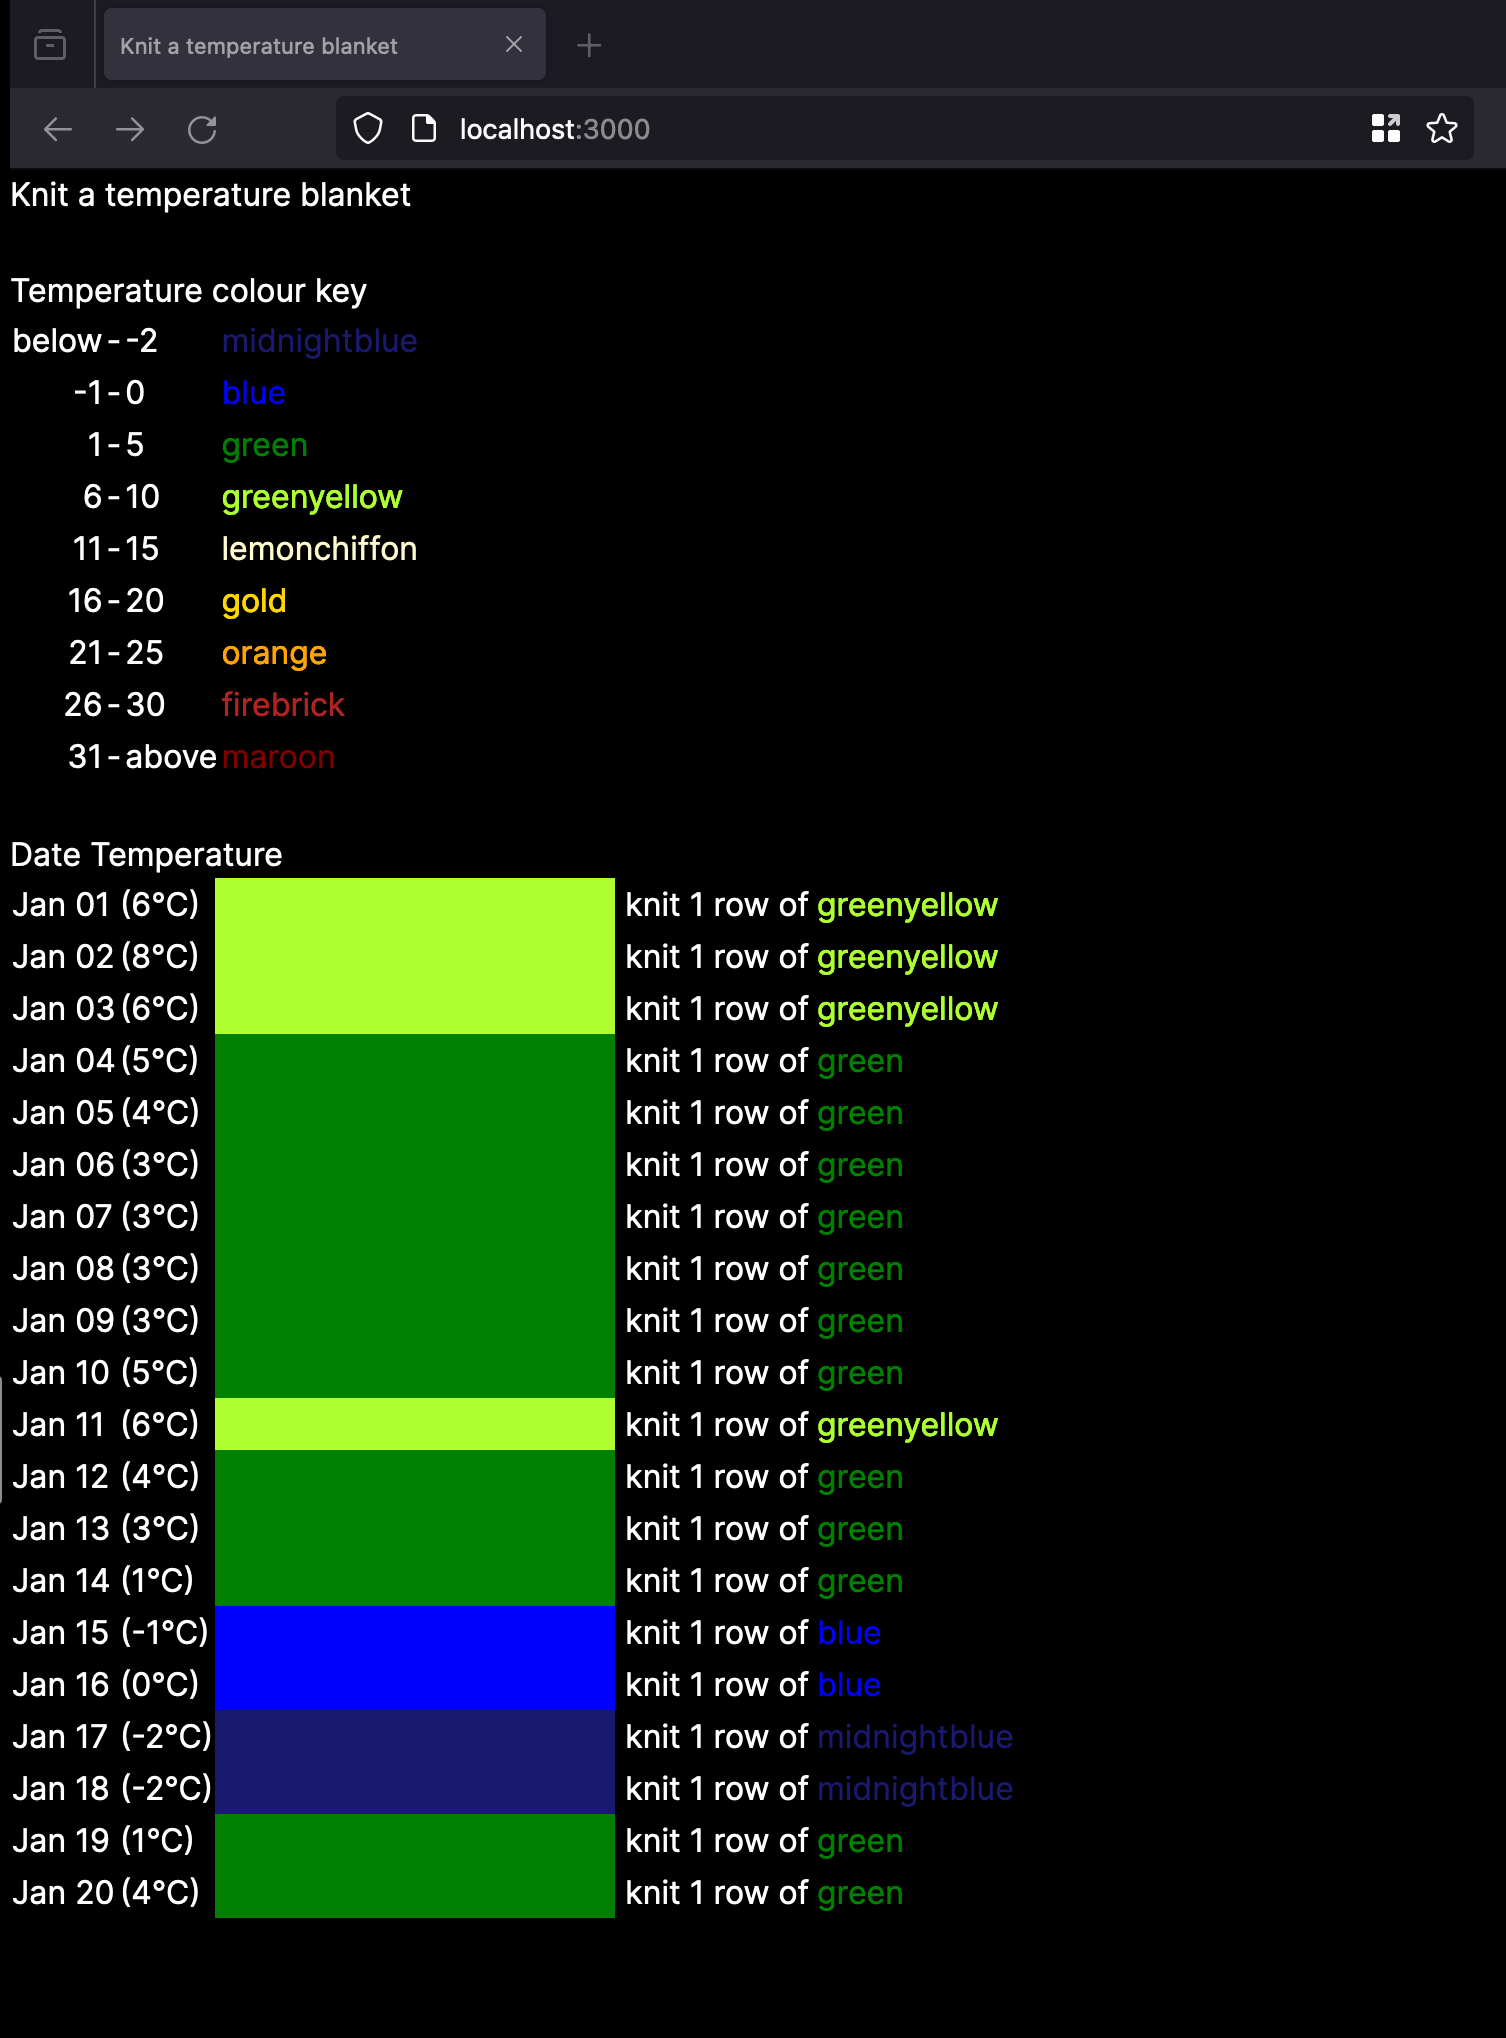
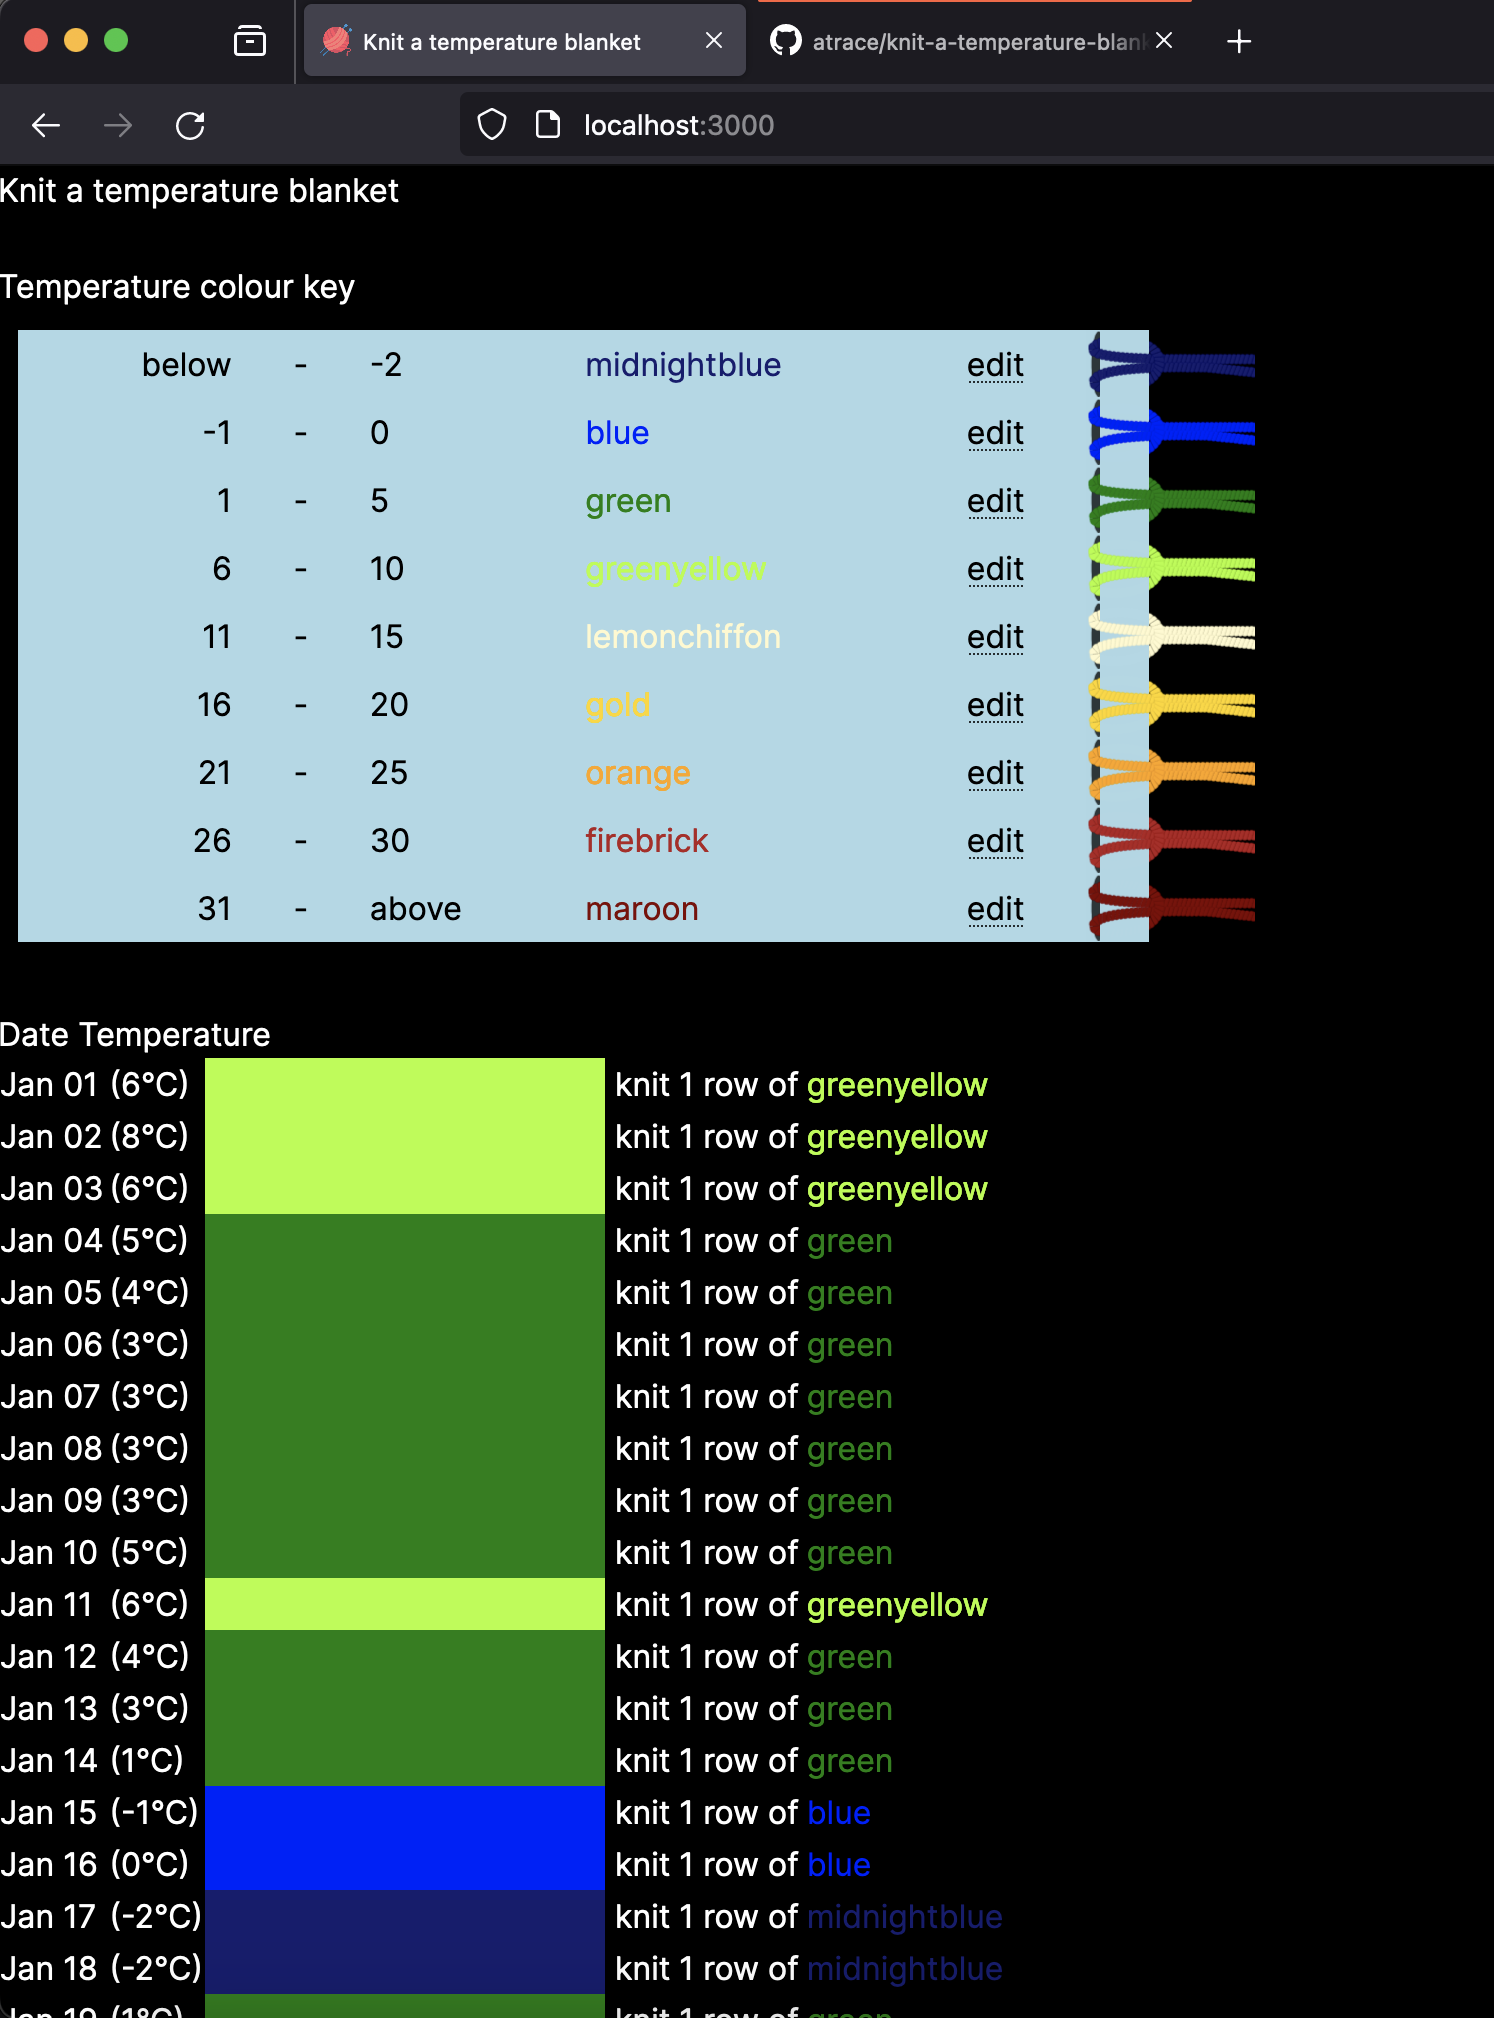
Fix colour key alignment issues

diff --git a/app/ui/colourKeyRow.tsx b/app/ui/colourKeyRow.tsx
@@ -7,22 +7,24 @@ import CowHitch from "./CowHitchIcon";
 
 interface ColourKeyRowProps {
   range: TemperatureRange;
+  rowIndex: number;
   updateRange: (
     range: TemperatureRange,
     newValues: Partial<TemperatureRange>,
   ) => void;
 }
 
-export default function ColourKeyRow({ range, updateRange }: ColourKeyRowProps) {
+export default function ColourKeyRow({
+  range,
+  rowIndex,
+  updateRange,
+}: ColourKeyRowProps) {
   const [editingRange, setEditingRange] = useState(false);
 
   const defaultStyle = {
-    // backgroundColor: "white",
     color: "black",
     backgroundColor: "lightblue",
-    // textAlign: "center",
-    padding: "20px 0",
-    // fontSize: 30,
+    padding: "5px 0",
   };
 
   const min = range.min == -1000 ? "below" : range.min;
@@ -31,71 +33,82 @@ export default function ColourKeyRow({ range, updateRange }: ColourKeyRowProps) 
   return (
     <>
       <div
-        key={`grid-container-${min}`}
         style={{
-          display: "grid",
-          gridTemplateColumns: "auto auto auto auto auto auto",
-          gap: 10,
-          backgroundColor: "#2196F3",
-          padding: 10,
+          ...defaultStyle,
+          textAlign: "right",
+          gridArea: `minimum-${rowIndex}`,
         }}
       >
-        <div
-          style={{
-            textAlign: "right",
-            ...defaultStyle,
-          }}
-        >
-          {min}
-        </div>
-        <div style={defaultStyle}> - </div>
-        <div style={defaultStyle}>{max}</div>
-        <div style={{ ...defaultStyle, color: range.colour }}>
-          {range.colourName}
-        </div>
-        <div style={defaultStyle}>
-          <button
-            style={{ textDecoration: "underline dotted" }}
-            onClick={() => setEditingRange(!editingRange)}
-          >
-            edit
-          </button>
-        </div>
-        <div style={{ padding: 0 }}>
-          <CowHitch
-            backgroundColour={defaultStyle.backgroundColor}
-            yarnColour={range.colour}
-            height={32}
-          />
-        </div>
+        {min}
+      </div>
+      <div
+        style={{
+          ...defaultStyle,
+          textAlign: "center",
+          gridArea: `to-${rowIndex}`,
+        }}
+      >
+        {" "}
+        -{" "}
+      </div>
+      <div
+        style={{
+          ...defaultStyle,
+          gridArea: `maximum-${rowIndex}`,
+        }}
+      >
+        {max}
+      </div>
+      <div
+        style={{
+          ...defaultStyle,
+          color: range.colour,
+          gridArea: `colourName-${rowIndex}`,
+        }}
+      >
+        {range.colourName}
+      </div>
+      <button
+        style={{
+          ...defaultStyle,
+          textDecoration: "underline dotted",
+          gridArea: `editButton-${rowIndex}`,
+        }}
+        onClick={() => setEditingRange(!editingRange)}
+      >
+        edit
+      </button>
+      <div
+        style={{
+          padding: 0,
+          gridArea: `yarnSwatch-${rowIndex}`,
+        }}
+      >
+        <CowHitch
+          backgroundColour={defaultStyle.backgroundColor}
+          yarnColour={range.colour}
+          height={34}
+        />
       </div>
       {editingRange ? (
-        <div
-          key={`grid-container`}
-          style={{
-            display: "grid",
-            gridTemplateAreas: "'colourPicker editColourName'",
-            gap: 15,
-            backgroundColor: "#2196F3",
-            padding: 10,
-          }}
-        >
+        <>
           <HexColorPicker
             color={range.colour}
             onChange={(newColour) => updateRange(range, { colour: newColour })}
             style={{
-              gridArea: "colourPicker",
+              gridArea: `colourPicker-${rowIndex}`,
               justifySelf: "self-end",
+              marginRight: 15,
             }}
           />
-          <div style={{ gridArea: "editColourName" }}>
+          <div style={{ gridArea: `editColourName-${rowIndex}` }}>
             <p>choose a new colour name:</p>
             <input
               onChange={({ target }) =>
                 updateRange(range, { colourName: target.value })
               }
               style={{
-                ...defaultStyle,
+                color: "black",
                 borderStyle: "solid",
                 borderWidth: 1,
                 borderColor: range.colour,
@@ -104,7 +117,7 @@ export default function ColourKeyRow({ range, updateRange }: ColourKeyRowProps) 
               value={range.colourName}
             />
           </div>
-        </div>
+        </>
       ) : null}
     </>
   );

diff --git a/app/ui/colourKey.tsx b/app/ui/colourKey.tsx
@@ -11,16 +11,48 @@ interface ColourKeyProps {
   ) => void;
 }
 
-export default function ColourKey({ temperatureRange, updateRange }: ColourKeyProps) {
-  const rows = temperatureRange.map((range) => (
-    <ColourKeyRow key={range.min} range={range} updateRange={updateRange} />
+export const getGridTemplate = (rowCount: number) => {
+  let gridTemplate = "";
+  let rowIndex = 0;
+
+  while (rowIndex < rowCount) {
+    gridTemplate +=
+      `'minimum-${rowIndex} to-${rowIndex} maximum-${rowIndex} colourName-${rowIndex} editButton-${rowIndex} yarnSwatch-${rowIndex}' ` +
+      `'colourPicker-${rowIndex} colourPicker-${rowIndex} colourPicker-${rowIndex} editColourName-${rowIndex} editColourName-${rowIndex} editColourName-${rowIndex}' `;
+    rowIndex++;
+  }
+  return gridTemplate;
+};
+
+export default function ColourKey({
+  temperatureRange,
+  updateRange,
+}: ColourKeyProps) {
+  const rows = temperatureRange.map((range, index) => (
+    <ColourKeyRow
+      key={range.min}
+      range={range}
+      rowIndex={index}
+      updateRange={updateRange}
+    />
   ));
+
+  const gridTemplate = getGridTemplate(rows.length);
 
   return (
     <>
       <h2>Temperature colour key</h2>
-
-      {rows}
+      <div
+        key={`grid-container`}
+        style={{
+          display: "grid",
+          gridTemplateAreas: gridTemplate,
+          padding: 10,
+          maxWidth: 700,
+        }}
+      >
+        {rows}
+      </div>
     </>
   );
 }

diff --git a/app/ui/colourKey.test.tsx b/app/ui/colourKey.test.tsx
@@ -1,0 +1,16 @@
+import { getGridTemplate } from "./colourKey";
+
+describe("colourKey", () => {
+  it("returns a grid template for 3 rows", () => {
+    const result = getGridTemplate(3);
+
+    expect(result).toEqual(
+      "'minimum-0 to-0 maximum-0 colourName-0 editButton-0 yarnSwatch-0' " +
+        "'colourPicker-0 editColourName-0' " +
+        "'minimum-1 to-1 maximum-1 colourName-1 editButton-1 yarnSwatch-1' " +
+        "'colourPicker-1 editColourName-1' " +
+        "'minimum-2 to-2 maximum-2 colourName-2 editButton-2 yarnSwatch-2' " +
+        "'colourPicker-2 editColourName-2' ",
+    );
+  });
+});

diff --git a/README.md b/README.md
@@ -42,7 +42,7 @@ Open [http://localhost:3000](http://localhost:3000) with your browser to see the
 
 ### Sneak Peek
 
-![Alt text](public/sneak_peek.png)
+![Screenshot of the web app running locally](public/sneak_peek.png)
 
 
 ## Resources
